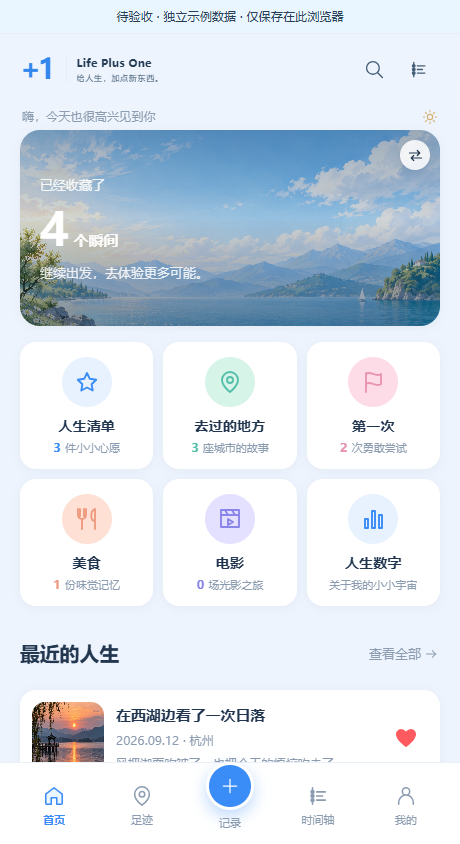
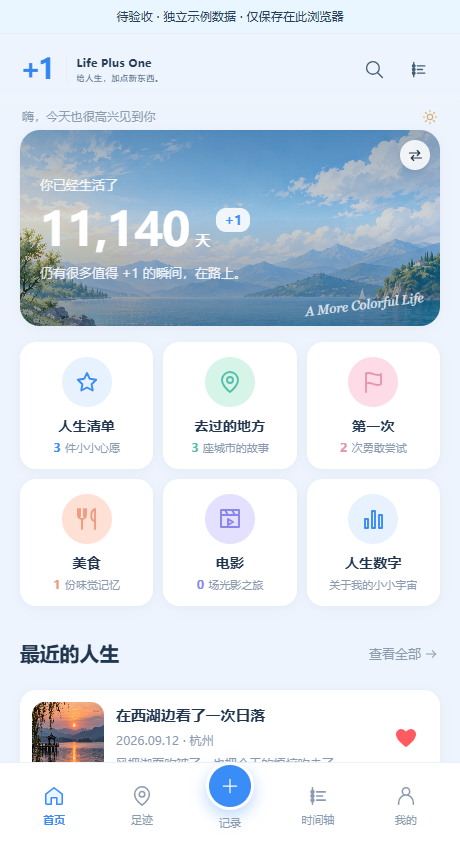
home hero: back to the day-count copy (你已经生活了 N 天) on both card styles

Changed region(s): [[0.0913, 0.2156, 0.5174, 0.3389], [0.6696, 0.3389, 0.913, 0.3697], [0.4565, 0.2464, 0.5478, 0.2773]]

diff --git a/life.js b/life.js
@@ -31,15 +31,24 @@ const demoRecords = [
  {id:'snow',type:'place',title:'第一次独自去北海道旅行',date:'2026-01-25',city:'札幌',country:'日本',place:'北海道',note:'雪落下的时候，世界好像按下了静音键。',mood:'惊艳',scene:2,first:true,companion:'自己'},
  {id:'camp',type:'first',title:'第一次在湖边醒来',date:'2025-05-01',city:'杭州',country:'中国',place:'千岛湖',note:'清晨六点，帐篷外是一整片蓝色。',mood:'难忘',scene:3,first:true,companion:'朋友'}
 ];
+/* 示例数据的人物生日：让首页卡片直接落在「你已经生活了 N 天」上。
+ * 只属于示例数据；用户自己填的生日永远不会被它覆盖（见下面的迁移判断）。 */
+const DEMO_BIRTHDAY = '1996-03-19';
 let storageIssue = false;
 const STORAGE_KEY = 'life-plus-one-review-experience-v1';
 function read(key, fallback) { try { const raw=localStorage.getItem(key); if(raw===null)return fallback; const data=JSON.parse(raw); if(!data || !Array.isArray(data.records) || !Array.isArray(data.wishes))throw Error('Invalid data'); return data; } catch { storageIssue=true; return fallback; } }
 const oldRecords = null;
 const oldWishes = null;
 const stored = read(STORAGE_KEY, null);
-let state = stored || {records:oldRecords || demoRecords,wishes:oldWishes || [{id:'wish-snow',title:'去北海道看雪',category:'想去',state:'想做',scene:2},{id:'wish-camp',title:'在湖边露营，看一场日出',category:'想体验',state:'进行中',scene:3},{id:'wish-film',title:'看一场露天电影',category:'想看',state:'想做',scene:0}], birthday:'',demo:!oldRecords};
+let state = stored || {records:oldRecords || demoRecords,wishes:oldWishes || [{id:'wish-snow',title:'去北海道看雪',category:'想去',state:'想做',scene:2},{id:'wish-camp',title:'在湖边露营，看一场日出',category:'想体验',state:'进行中',scene:3},{id:'wish-film',title:'看一场露天电影',category:'想看',state:'想做',scene:0}], birthday:DEMO_BIRTHDAY,demo:!oldRecords};
 state.records = (state.records || []).filter(r=>r && typeof r==='object').map(r => ({...r,id:r.id || uid(),date:typeof r.date==='string'?r.date:'',first:!!r.first || r.type==='first'}));
 state.wishes = (state.wishes || []).filter(w=>w && typeof w==='object').map(w => ({...w,id:w.id || uid()}));
+/* 老版本存在浏览器里的示例数据生日是空的，会把首页卡片退回「收藏了多少个瞬间」。
+ * 只在「记录里全是示例那几条、自己没加过内容」时补上生日；一旦有自己的记录或生日，一律不动。 */
+if(state.demo===true && !state.birthday && state.records.length>0 && state.records.every(r=>demoRecords.some(d=>d.id===r.id))){
+ state = {...state,birthday:DEMO_BIRTHDAY};
+ if(!storageIssue){ try { localStorage.setItem(STORAGE_KEY,JSON.stringify(state)); } catch {} }
+}
 let photoLoading=false, photoRequest=0;
 let page=new URLSearchParams(location.search).get('view')==='home'?'home':'cover', filter='all', query='', wishFilter='全部', detailId='', modalReturn=null, pendingScene=null, pendingPhoto=null;
 const app = $('#app');
@@ -59,13 +68,22 @@ const HOME_STYLE_KEY = 'life-plus-one-review-home-style';
 const readHomeStyle = () => { try { return localStorage.getItem(HOME_STYLE_KEY)==='classic'?'classic':'photo'; } catch { return 'photo'; } };
 let homeStyle = readHomeStyle();
 const swapLabel = style => style==='classic' ? '切换为照片版卡片' : '切换为简洁版卡片';
+/* 卡片文案：两种版本共用同一份内容，差别只在视觉。
+ * 数据源是「你已经生活了 N 天」（codex 原版口径），只有连生日都没有时才退回收藏数量。 */
+function bannerCopy() {
+ const days = state.birthday ? Math.floor((Date.parse(today())-Date.parse(state.birthday))/86400000)+1 : null;
+ return {
+  label: days ? '你已经生活了' : '你已经收藏了',
+  count: (days || state.records.length).toLocaleString(),
+  unit: days ? '天' : '个瞬间',
+  note: days ? '仍有很多值得 +1 的瞬间，在路上。' : '继续出发，去体验更多可能。',
+ };
+}
 /* 一张卡（两种版本共用一个渲染函数，切换时只换这张卡，不动整页） */
 function bannerCard(style) {
- const days=state.birthday ? Math.floor((Date.parse(today())-Date.parse(state.birthday))/86400000)+1 : null;
- const count=(days || state.records.length).toLocaleString();
- return style==='classic'
-  ? `<button class="life-banner style-classic" data-go="numbers"><div class="banner-copy"><span>${days?'你已经生活了':'你已经收藏了'}</span><div><strong>${count}</strong> ${days?'天':'个瞬间'}<em>+1</em></div><p>${days?'仍有很多值得 +1 的瞬间，在路上。':'继续出发，去体验更多可能。'}</p></div><span class="banner-caption">A More Colorful Life</span></button>`
-  : `<button class="life-banner" data-go="numbers"><div class="banner-copy"><span>${days?'已经和这个世界相遇了':'已经收藏了'}</span><div><strong>${count}</strong> ${days?'天':'个瞬间'}</div><p>继续出发，去体验更多可能。</p></div></button>`;
+ const t = bannerCopy();
+ const body = `<div class="banner-copy"><span>${t.label}</span><div><strong>${t.count}</strong><span class="banner-unit">${t.unit}</span><em>+1</em></div><p>${t.note}</p></div><span class="banner-caption">A More Colorful Life</span>`;
+ return `<button class="life-banner${style==='classic'?' style-classic':''}" data-go="numbers">${body}</button>`;
 }
 const bannerSlide = style => `<div class="banner-slide">${bannerCard(style)}</div>`;
 /* 卡片外层：右上角一个双箭头按钮负责切换 */

diff --git a/prototype.css b/prototype.css
@@ -229,20 +229,8 @@
   color: #fff;
   font-variant-numeric: tabular-nums;
 }
-.banner-copy em { display: none; }
-.banner-copy p { font: 500 13px/20px var(--font-ui); color: rgba(255, 255, 255, .86); }
-.banner-caption { display: none; }
-
-/* codex 简洁版卡片：浅色渐变 + 右侧露出照片 + 深蓝数字 + 落款 */
-/* 高度由上面的滑轨统一给（.banner-wrap .banner-slide .life-banner），这里只管底色与排版 */
-.life-banner.style-classic { padding: 22px 20px; background: var(--blue-soft); }
-.life-banner.style-classic:before { background-position: center 61%; }
-.life-banner.style-classic:after { background: linear-gradient(90deg, var(--hero-wash-start), var(--hero-wash-mid) 62%, var(--hero-wash-end)); }
-.life-banner.style-classic .banner-copy { color: var(--pro-sub); }
-.life-banner.style-classic .banner-copy > span { font: 500 12px/18px var(--font-ui); color: var(--pro-sub); }
-.life-banner.style-classic .banner-copy > div { margin: 7px 0 10px; font: 500 12px/18px var(--font-ui); color: var(--pro-sub); }
-.life-banner.style-classic .banner-copy strong { font: 600 42px/50px var(--font-ui); letter-spacing: -.01em; color: var(--blue-deep); }
-.life-banner.style-classic .banner-copy em {
+/* +1 徽标：咬在大数字右上角的小胶囊（两版共用，codex 原版样式） */
+.banner-copy em {
   display: inline-block;
   align-self: flex-start;
   margin-top: 5px;
@@ -253,16 +241,28 @@
   font-style: normal;
   color: var(--pro-blue);
 }
-.life-banner.style-classic .banner-copy p { font: 500 11px/17px var(--font-ui); color: var(--pro-sub); }
-.life-banner.style-classic .banner-caption {
-  display: block;
+.banner-copy p { font: 500 13px/20px var(--font-ui); color: rgba(255, 255, 255, .86); }
+/* 落款：两版都在右下角，只有颜色随底色走 */
+.banner-caption {
   position: absolute;
   right: 16px;
   bottom: 14px;
   font: italic 13px Georgia, serif;
-  color: #7d95ad;
+  color: rgba(255, 255, 255, .8);
   transform: rotate(-7deg);
 }
+
+/* codex 简洁版卡片：浅色渐变 + 右侧露出照片 + 深蓝数字 + 落款 */
+/* 高度由上面的滑轨统一给（.banner-wrap .banner-slide .life-banner），这里只管底色与排版 */
+.life-banner.style-classic { padding: 22px 20px; background: var(--blue-soft); }
+.life-banner.style-classic:before { background-position: center 61%; }
+.life-banner.style-classic:after { background: linear-gradient(90deg, var(--hero-wash-start), var(--hero-wash-mid) 62%, var(--hero-wash-end)); }
+.life-banner.style-classic .banner-copy { color: var(--pro-sub); }
+.life-banner.style-classic .banner-copy > span { font: 500 12px/18px var(--font-ui); color: var(--pro-sub); }
+.life-banner.style-classic .banner-copy > div { margin: 7px 0 10px; font: 500 12px/18px var(--font-ui); color: var(--pro-sub); }
+.life-banner.style-classic .banner-copy strong { font: 600 42px/50px var(--font-ui); letter-spacing: -.01em; color: var(--blue-deep); }
+.life-banner.style-classic .banner-copy p { font: 500 11px/17px var(--font-ui); color: var(--pro-sub); }
+.life-banner.style-classic .banner-caption { color: #7d95ad; }
 
 /* ── 六宫格：彩色圆底图标 + codex 的说明文案 ────────── */
 .modules { gap: 10px; margin-block: 16px 20px; }

diff --git a/docs/PROTOTYPE_ALIGNMENT.md b/docs/PROTOTYPE_ALIGNMENT.md
@@ -134,3 +134,33 @@
   触控区 ≥44px、有小圆底）与横向滑动断言（滑动中轨道内 2 张卡、轨道 transform 非零、
   外层 `overflow:hidden`、两张卡等高、结束后只剩 1 张卡）；并用 DOM 探针证明切换过程中
   问候行与六宫格**没有被重绘**（不是整页刷新）。
+
+## 第六轮修订（首页卡片回到 codex 的「人生天数」口径）
+
+| 项 | 修订前 | 修订后 |
+| --- | --- | --- |
+| 卡片首行 | 照片版「已经和这个世界相遇了」、简洁版「你已经生活了」（兜底时都是「你已经收藏了」） | 两版统一「你已经生活了」，兜底「你已经收藏了」 |
+| 卡片大数字 | 示例数据没有生日 → 退回记录条数，显示「4 个瞬间」 | 示例数据带生日 → 「11,140 天」（与 codex 原型图一致） |
+| +1 徽标 | 只有简洁版有（照片版 `display:none`） | 两版都有，同款白胶囊 + 蓝字 |
+| 落款 | 只有简洁版有 | 两版都有；照片版白色斜体，简洁版灰蓝斜体 |
+| 结语 | 照片版固定「继续出发，去体验更多可能。」 | 两版统一「仍有很多值得 +1 的瞬间，在路上。」 |
+
+实现要点：
+
+- **文案只有一份**：抽出 `bannerCopy()` 产出 `{label, count, unit, note}`，两种版本共用；
+  `bannerCard(style)` 只决定 class（`style-classic` 与否）。以后改文案只改一处。
+- **单位包一层 `<span class="banner-unit">`**：原来单位是裸文本节点，脚本没法稳定取到，
+  包起来后断言可以精确比对「天 / 个瞬间」。
+- **示例数据的人物生日 `DEMO_BIRTHDAY = '1996-03-19'`**：按原型图的 11,140 天反推，
+  保证验收时看到的数字与 codex 原型图一致（会随日期自然增长）。
+- **老示例数据的迁移**：旧版存在浏览器里的示例数据生日是空的，会让卡片退回「收藏了多少个
+  瞬间」。加载时若满足「`demo:true` + 没有生日 + 记录非空 + 记录全是示例那几条」，就补上生日
+  并写回；**只要用户自己加过记录或填过生日，一律不动**（避免凭空替真人编造生日）。
+
+自查脚本变化：
+
+- `verify-home-cards.cjs`：断言「照片版不显示落款 / 徽标」改为「两版都显示落款与 +1 徽标」，
+  新增「首行 = 你已经生活了、单位 = 天、结语 = 仍有很多值得 +1 的瞬间，在路上。」、
+  「大数字是带千分位的天数且 > 10000」、「两版内容逐字段相等（只换视觉不换文案）」，
+  以及一条**迁移回归**：把老格式（生日为空）的示例数据写进 localStorage 后重载，
+  断言卡片自动回到天数口径。
